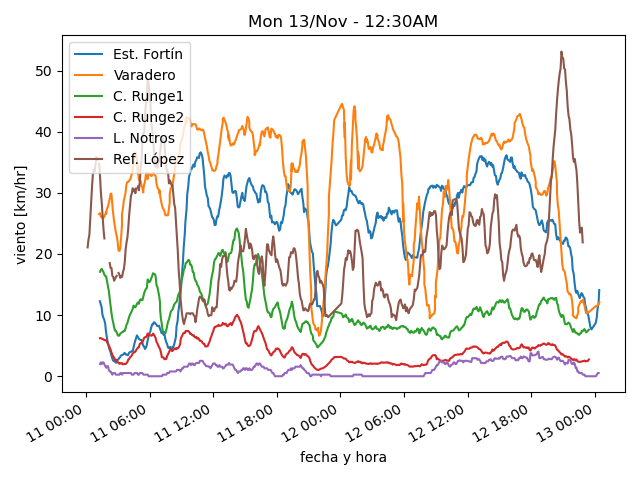
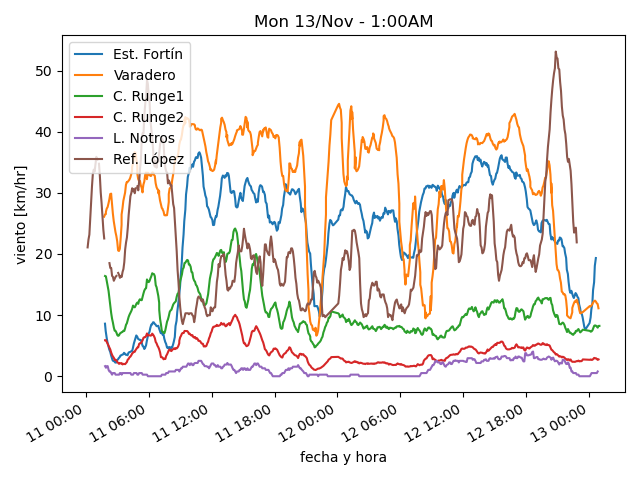
actualiza datos

diff --git a/estaciones/estacion4.html b/estaciones/estacion4.html
@@ -13,42 +13,42 @@
     </tr>
     <tr>
      <td class="stats_data">
-      Sun 12/Nov
+      Mon 13/Nov
      </td>
     </tr>
     <tr>
      <td class="stats_data">
-      11:24PM
+      12:54AM
      </td>
     </tr>
     <tr>
      <td class="stats_data">
-      3.0⁰C
+      3.3⁰C
      </td>
     </tr>
     <tr>
      <td class="stats_data">
-      -2.4⁰C
+      -2.2⁰C
      </td>
     </tr>
     <tr>
      <td class="stats_data">
-      67.7%
+      67.0%
      </td>
     </tr>
     <tr>
      <td class="stats_data">
-      1018.12hPa
+      1017.61hPa
      </td>
     </tr>
     <tr>
      <td class="stats_data">
-      3.1/4.8 km/hr SW
+      1.2/2.0 km/hr SSW
      </td>
     </tr>
     <tr>
      <td class="stats_data">
-      1.6 / 0.0 mm
+      0.0 / 0.0 mm
      </td>
     </tr>
     <tr>

diff --git a/estaciones/estacion3.html b/estaciones/estacion3.html
@@ -13,17 +13,17 @@
     </tr>
     <tr>
      <td class="stats_data">
-      Sun 12/Nov
+      Mon 13/Nov
      </td>
     </tr>
     <tr>
      <td class="stats_data">
-      11:24PM
+      12:59AM
      </td>
     </tr>
     <tr>
      <td class="stats_data">
-      3.1⁰C
+      3.3⁰C
      </td>
     </tr>
     <tr>
@@ -33,22 +33,22 @@
     </tr>
     <tr>
      <td class="stats_data">
-      71.6%
+      70.4%
      </td>
     </tr>
     <tr>
      <td class="stats_data">
-      1009.21hPa
+      1008.94hPa
      </td>
     </tr>
     <tr>
      <td class="stats_data">
-      7.3/10.5 km/hr WSW
+      5.3/7.3 km/hr WNW
      </td>
     </tr>
     <tr>
      <td class="stats_data">
-      2.11 / 0.0 mm
+      0.0 / 0.0 mm
      </td>
     </tr>
     <tr>

diff --git a/estaciones/estacion2.html b/estaciones/estacion2.html
@@ -18,32 +18,32 @@
     </tr>
     <tr>
      <td class="stats_data">
-      12:24AM
+      12:54AM
      </td>
     </tr>
     <tr>
      <td class="stats_data">
-      4.3⁰C
+      4.5⁰C
      </td>
     </tr>
     <tr>
      <td class="stats_data">
-      -0.3⁰C
+      -0.6⁰C
      </td>
     </tr>
     <tr>
      <td class="stats_data">
-      72.2%
+      69.6%
      </td>
     </tr>
     <tr>
      <td class="stats_data">
-      1023.74hPa
+      1023.84hPa
      </td>
     </tr>
     <tr>
      <td class="stats_data">
-      9.3/13.6 km/hr WNW
+      6.6/11.0 km/hr SW
      </td>
     </tr>
     <tr>

diff --git a/estaciones/estacion1.html b/estaciones/estacion1.html
@@ -18,7 +18,7 @@
     </tr>
     <tr>
      <td class="stats_data">
-      12:23AM
+      12:39AM
      </td>
     </tr>
     <tr>
@@ -28,12 +28,12 @@
     </tr>
     <tr>
      <td class="stats_data">
-      -2.5⁰C
+      -2.7⁰C
      </td>
     </tr>
     <tr>
      <td class="stats_data">
-      64.0%
+      63.0%
      </td>
     </tr>
     <tr>
@@ -43,7 +43,7 @@
     </tr>
     <tr>
      <td class="stats_data">
-      13.7/26.6 km/hr W
+      14.5/22.0 km/hr W
      </td>
     </tr>
     <tr>

diff --git a/estaciones/estacion5.html b/estaciones/estacion5.html
@@ -18,17 +18,17 @@
     </tr>
     <tr>
      <td class="stats_data">
-      12:20AM
+      12:50AM
      </td>
     </tr>
     <tr>
      <td class="stats_data">
-      2.8⁰C
+      2.6⁰C
      </td>
     </tr>
     <tr>
      <td class="stats_data">
-      -1.1⁰C
+      -1.2⁰C
      </td>
     </tr>
     <tr>
@@ -43,7 +43,7 @@
     </tr>
     <tr>
      <td class="stats_data">
-      0.0/0.0 km/hr N
+      0.0/2.6 km/hr N
      </td>
     </tr>
     <tr>
